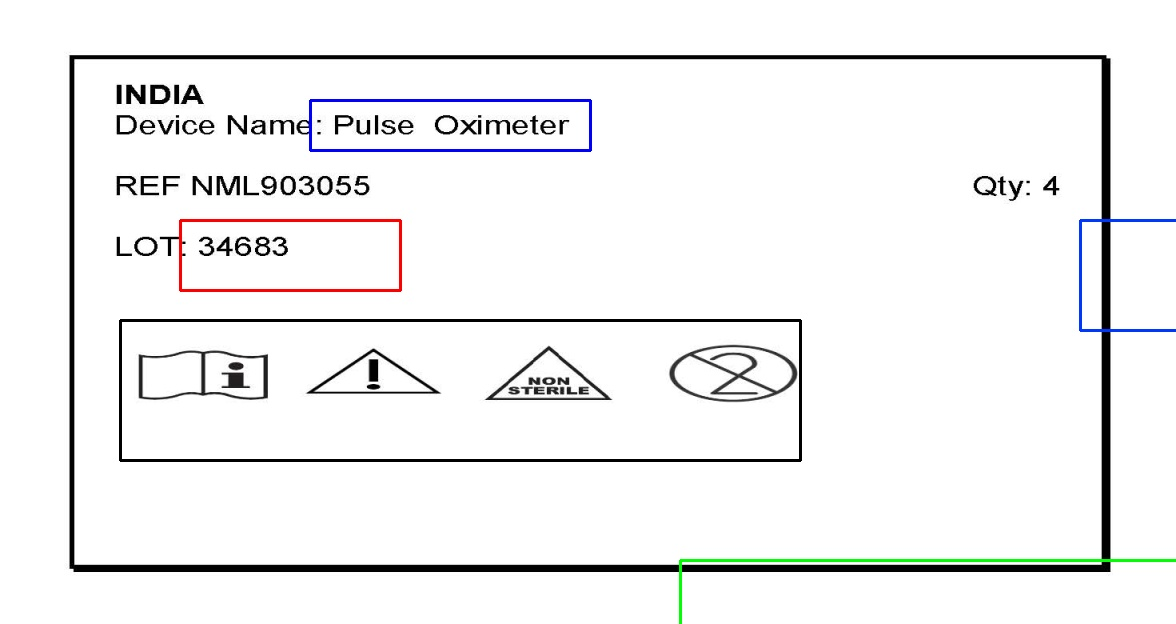
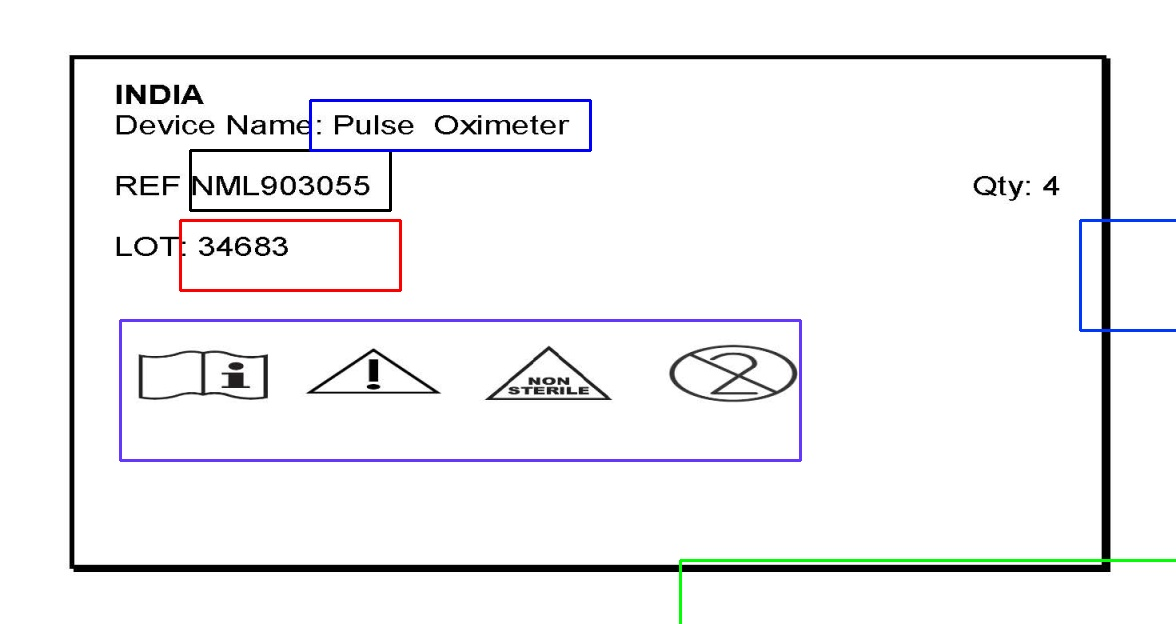
file added

diff --git a/backup.py b/backup.py
@@ -25,35 +25,8 @@ for i in range(len(os.listdir(datadir))):
     img_array = cv2.resize(img_array, dim, interpolation = cv2.INTER_AREA)
     
     def crop(x, y, w, h, img_type):
-        # if img_type == 'ref':
-        #     img=cv2.rectangle(img_array,(x,y),(x+w,y+h),(0,255,255),2)
-        #     x=x+15
-        #     y=y+1
-        #     crop_img = img_array[y:y+h, x:x+w]
-        # elif img_type == 'device':
-        #     img=cv2.rectangle(img_array,(x,y),(x+w,y+h),(255,0,0),2)
-        #     x=x+1
-        #     y=y+1
-        #     crop_img = img_array[y:y+h, x:x+w]
-        # elif img_type == 'lot':
-        #     img=cv2.rectangle(img_array,(x,y),(x+w,y+h),(0,255,0),2)
-        #     x=x+1
-        #     y=y+1
-        #     crop_img = img_array[y:y+h, x:x+w]
-        # elif img_type == 'qty':
-        #     img=cv2.rectangle(img_array,(x,y),(x+w,y+h),(255,55,0),2)
-        #     x=x+1
-        #     y=y+1
-        #     crop_img = img_array[y:y+h, x:x+w]
-        # elif img_type == 'symbol':
-        #     img=cv2.rectangle(img_array,(x,y),(x+w,y+h),(0,205,100),2)
-        #     x=x+1
-        #     y=y+1
-        #     crop_img = img_array[y:y+h, x:x+w]
-        # else:
-        #     print('Correct Type!')
         if img_type == 'ref':
-            img=cv2.rectangle(img_array,(x,y),(x+w,y+h),(55,0,255),2)
+            img=cv2.rectangle(img_array,(x,y),(x+w,y+h),(0,0,0),2)
         elif img_type == 'lot':
             img=cv2.rectangle(img_array,(x,y),(x+w,y+h),(0,0,255),2)
         elif img_type == 'device':
@@ -61,7 +34,7 @@ for i in range(len(os.listdir(datadir))):
         elif img_type == 'qty':
             img=cv2.rectangle(img_array,(x,y),(x+w,y+h),(255,55,0),2)
         elif img_type == 'symbol1':
-            img=cv2.rectangle(img_array,(x,y),(x+w,y+h),(0,0,0),2)
+            img=cv2.rectangle(img_array,(x,y),(x+w,y+h),(255,55,100),2)
         elif img_type == 'symbol2':
             img=cv2.rectangle(img_array,(x,y),(x+w,y+h),(0,255,0),2)
         else:
@@ -71,7 +44,7 @@ for i in range(len(os.listdir(datadir))):
         y=y+8
         crop_img = img_array[y:y+h, x:x+w]
         return crop_img, img, boxed_img
-    cropped_ref_img = crop(680,560,920,180, img_type='ref')
+    cropped_ref_img = crop(190,150,200,60, img_type='ref')
     cropped_lot_img = crop(180,220,220,70, img_type='lot')
     cropped_device_img = crop(310,100,280,50, img_type='device')
     cropped_symbol1_img = crop(120,320,680,140, img_type='symbol1')
@@ -79,10 +52,11 @@ for i in range(len(os.listdir(datadir))):
     cropped_symbol2_img = crop(680,560,920,180, img_type='symbol2')
 
     cv2.imwrite("cropped_ref_img.jpg", cropped_ref_img[0])
-    cv2.imwrite("Image_output\device\cropped_device_img.jpg",cropped_device_img)
-    cv2.imwrite("Image_output\lot\cropped_lot_img.jpg",cropped_lot_img)
-    cv2.imwrite("Image_output\qty\cropped_qty_img.jpg", cropped_qty_img)
-    cv2.imwrite("Image_output\symbols\cropped_symbol_img.jpg", cropped_symbol_img)
+    cv2.imwrite("Image_output\device\cropped_device_img.jpg",cropped_device_img[0])
+    cv2.imwrite("Image_output\lot\cropped_lot_img.jpg",cropped_lot_img[0])
+    cv2.imwrite("Image_output\qty\cropped_qty_img.jpg", cropped_qty_img[0])
+    cv2.imwrite("Image_output\symbols\cropped_symbol_img.jpg", cropped_symbol1_img[0])
+    cv2.imwrite("Image_output\symbols\cropped_symbol_img.jpg", cropped_symbol2_img[0])
     # cv2.imwrite("croped_img/Cropped_Image{}.jpg" .format(i), cropped_image)
     # cv2.imshow('output_img.jpg', img_arr)
     # plt.show()
